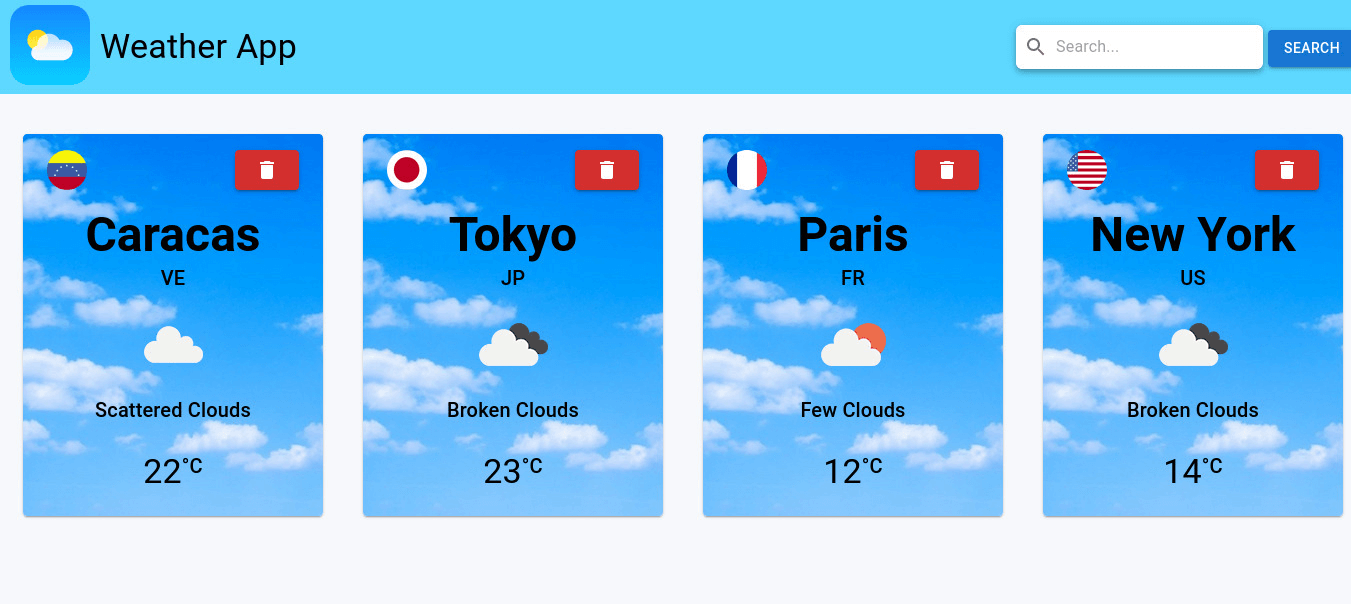
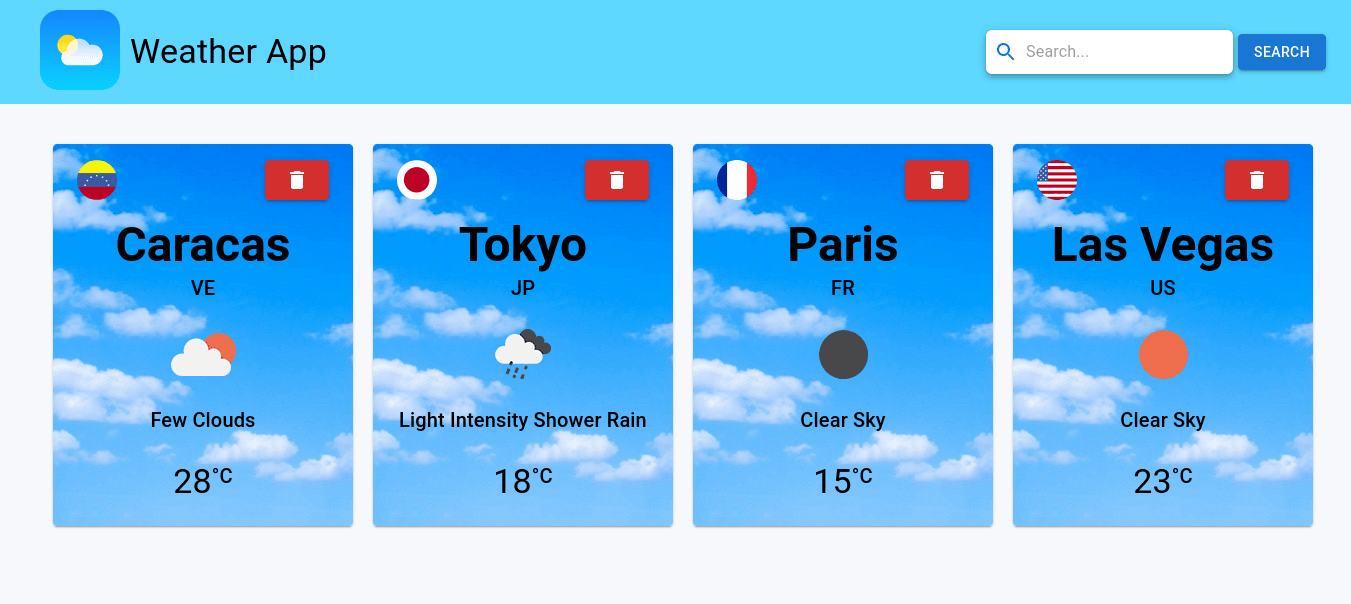
Pequeños cambios en css

diff --git a/src/components/SearchBar/SearchBar.tsx b/src/components/SearchBar/SearchBar.tsx
@@ -3,7 +3,7 @@ import { Input, Button, InputAdornment } from "@mui/material";
 import SearchIcon from "@mui/icons-material/Search";
 import style from "./SearchBar.module.css";
 
-const SearchBar = ({ onSearch }: { onSearch: (city: string) => void }) => {
+const SearchBar = ({ onSearch }: { onSearch: (city: string) => void }): JSX.Element => {
   const [city, setCity] = useState<string>("");
   const handleInputChange = (e: React.ChangeEvent<HTMLInputElement>): void => {
     e.preventDefault();
@@ -21,7 +21,7 @@ const SearchBar = ({ onSearch }: { onSearch: (city: string) => void }) => {
   };
   return (
     <React.Fragment>
-      <form onSubmit={handleSubmit}>
+      <form onSubmit={handleSubmit} className={style.container}>
         <Input
           type="text"
           placeholder="Search..."
@@ -29,7 +29,7 @@ const SearchBar = ({ onSearch }: { onSearch: (city: string) => void }) => {
           className={style.search_styles}
           startAdornment={
             <InputAdornment position="start">
-              <SearchIcon />
+              <SearchIcon color="primary" />
             </InputAdornment>
           }
           disableUnderline={true}

diff --git a/src/components/Card/Card.tsx b/src/components/Card/Card.tsx
@@ -25,7 +25,7 @@ const CardItem: React.FC<CityCardsProps> = ({
   temp,
   onClose,
 }): JSX.Element => {
-  if(country === undefined) country = "Country Not Found"
+  if (country === undefined) country = "Country Not Found";
   return (
     <div key={id}>
       <Card sx={{ px: 1 }} className={style.background}>
@@ -46,7 +46,7 @@ const CardItem: React.FC<CityCardsProps> = ({
           </Button>
         </CardContent>
         <CardContent className={style.data_container}>
-          <Typography variant="h3" sx={{ fontWeight: "700" }} noWrap>
+          <Typography variant="h3" sx={{ fontWeight: "700" }} noWrap={false}>
             {name}
           </Typography>
           <Typography variant="h6" noWrap>

diff --git a/src/components/Cards/Cards.tsx b/src/components/Cards/Cards.tsx
@@ -30,8 +30,11 @@ const Cards: React.FC<CityCardsProps> = ({ cities, onClose }): JSX.Element => {
   } else {
     return (
       <Container className={style.cardsContainer}>
-        <Typography variant="h2" sx={{ textAlign: "center" }}>
-          No Searches
+        <Typography
+          variant="h2"
+          sx={{ textAlign: "center", marginTop: "150px" }}
+        >
+          No Searches Yet...
         </Typography>
       </Container>
     );

diff --git a/src/components/Navbar/Navbar.tsx b/src/components/Navbar/Navbar.tsx
@@ -14,9 +14,7 @@ const Navbar = ({
   return (
     <React.Fragment>
       <nav className={style.container}>
-        <div
-          className={style.container_title}
-        >
+        <div className={style.container_title}>
           <div className={style.logo_styles}>
             <WeatherSvg dimension={80} />
           </div>

diff --git a/src/components/Navbar/Navbar.module.css b/src/components/Navbar/Navbar.module.css
@@ -1,11 +1,12 @@
 .container {
-  padding: 0 10px 0 10px;
+  padding: 5px 40px 5px 40px;
   background-color: #5ed8ff;
   margin-bottom: 40px;
   display: flex;
   flex-direction: row;
   align-items: center;
   justify-content: space-between;
+  flex-wrap: wrap;
 }
 
 .title_styles {

diff --git a/src/components/Cards/Cards.module.css b/src/components/Cards/Cards.module.css
@@ -4,6 +4,6 @@
   align-self: center;
   grid-template-columns: repeat(auto-fill, minmax(300px, auto));
   grid-template-rows: repeat(auto-fill, minmax(300px, auto));
-  grid-gap: 40px 40px;
+  grid-gap: 20px 20px;
   margin-bottom: 40px;
 }

diff --git a/src/components/SearchBar/SearchBar.module.css b/src/components/SearchBar/SearchBar.module.css
@@ -14,9 +14,10 @@
 margin: 5px;
 }
 
-/* .search_container {
+.container {
   display: flex;
   flex-direction: row;
-  min-width: 280px;
+  /* min-width: 280px; */
   justify-content: space-between;
-} */
+  align-items: center;
+}

diff --git a/src/components/Card/Card.module.css b/src/components/Card/Card.module.css
@@ -10,7 +10,7 @@
   flex-direction: column;
   justify-content: center;
   align-items: center;
-  /* text-align: center; */
+  text-align: center;
   color: #000;
 }
 
